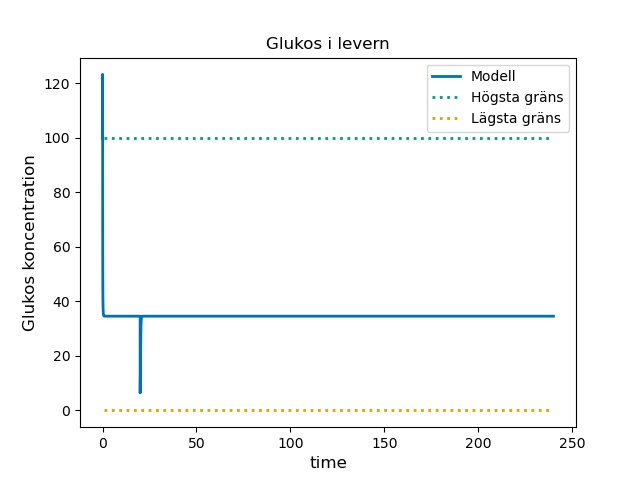
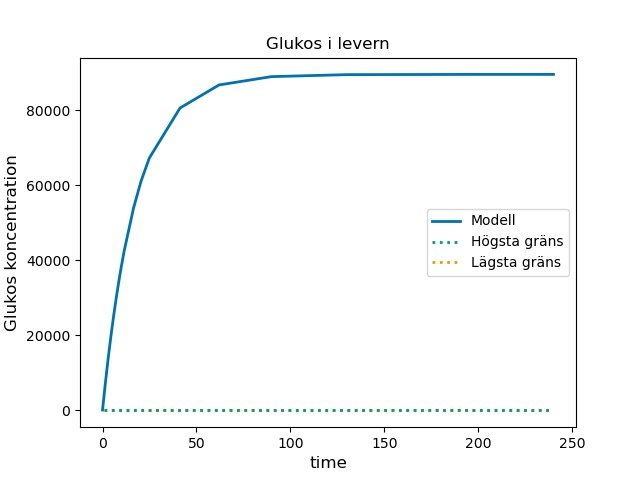
working code

diff --git a/optimering/week17_open_loop_no_inj.py b/optimering/week17_open_loop_no_inj.py
@@ -24,17 +24,6 @@ tI_vec = data_I['time'].values
 cG_vec = data_G['conc'].values
 cI_vec = data_I['conc'].values 
 
-# # Split the time-vectors at timepoint 20 minutes
-# index_G = np.searchsorted(tG_vec, 20)
-# index_I = np.searchsorted(tI_vec, 20)
-
-# tG_1 = tG_vec[0:index_G]
-# tG_2 = tG_vec[index_G:]
-
-# tI_1 = tI_vec[0:index_I]
-# tI_2 = tI_vec[index_I:]
-
-
 def open_loop(t,x,b): 
 
     k1, k2, k3, k4, k5, k6, k7, k8 = b
@@ -48,23 +37,26 @@ def open_loop(t,x,b):
 
     #L= 5000 # Startvärde glukos i levern
 
+    # Scaling factor for units
+    scal_factor = 1e-9
+
     # Glucose plasma [1]
-    dG = k4*C + k1*H - k2*G*I
+    dG = k4*C + k1*H - k2*G*I*scal_factor
 
     # Insulin plasma [2]
-    dI = k3*G - k2*G*I*10**(-9)
+    dI = k3*G - k2*G*I*scal_factor
 
     # GLucose liver [3]
-    dC = -k4*C + k6*E*10**(-9) + k7*F
+    dC = -k4*C + k6*E*scal_factor + k7*F 
 
     # Glucose musle [4]
-    dM = k2*G*I*10**(-9) - k5*M
+    dM = k2*G*I*scal_factor - k5*M
 
     # Glucose intake [5]
     dH = -k1*H
 
     # Glucagon [6]
-    dE = k8 - k2*G*E 
+    dE = k8 - k2*G*E*scal_factor 
 
     # Fettreserv [7]
     dF = -k7*F
@@ -80,14 +72,6 @@ def cost_function(b, yG_vec, yI_vec):
     time_span_G = [tG_vec[0], tG_vec[-1]] 
     time_span_I = [tI_vec[0], tI_vec[-1]] 
 
-    # x0 = [60, 3, 10000, 2, 70, 500]  # G, I, C, M, H, E 
-    # time_span_G1 = [tG_1[0], tG_1[-1]]
-    # time_span_G2 = [tG_2[0], tG_2[-1]] 
-    # time_span_I1 = [tI_1[0], tI_1[-1]]
-    # time_span_I2 = [tI_2[0], tI_2[-1]]
-    
-    #Injection
-    #inj = 2742
 
     # Step 1: Solve ODE-system at points tG_vec
     sol_G = integrate.solve_ivp(open_loop, time_span_G, x0, method="Radau", args=(b, ), t_eval=tG_vec) 
@@ -105,39 +89,6 @@ def cost_function(b, yG_vec, yI_vec):
     E_model = sol_qual.y[5]
     F_model = sol_qual.y[6]
 
-
-    # # Solve ODE-system until 20 minutes
-    # first_sol_G = integrate.solve_ivp(open_loop, time_span_G1, x0, method="LSODA", args=(b, ), t_eval=tG_1) 
-    # first_sol_I = integrate.solve_ivp(open_loop, time_span_I1, x0, method="LSODA", args=(b, ), t_eval=tI_1) 
-    
-    # # Simulate injection of insulin
-    # x1 = first_sol_G.y[:,-1] + [0, inj, 0, 0, 0, 0]
-    
-    # # Solve ODE-system after 20 miunutes
-    # second_sol_G = integrate.solve_ivp(open_loop, time_span_G2, x1, method="LSODA", args=(b, ), t_eval = tG_2)
-    # second_sol_I = integrate.solve_ivp(open_loop, time_span_I2, x1, method="LSODA", args=(b, ), t_eval = tI_2)
-
-    # # The solution for the ODE-system over tG_vec and tI_vec
-    # sol_G = np.concatenate([first_sol_G.y, second_sol_G.y], axis = 1)
-    # sol_I = np.concatenate([first_sol_I.y, second_sol_I.y], axis = 1)
-     
-    # # Solve ODE-system qualitative
-    # first_sol_qual = integrate.solve_ivp(open_loop, [0,20], x0, method="LSODA", args=(b, ))
-
-    # # Simulate the injection
-    # x2 = first_sol_qual.y[:, -1] + [0, 10000, 0, 0, 0, 0]
-
-    # # Solve ODE-system after 20 miunutes with injection
-    # second_sol_qual = integrate.solve_ivp(open_loop, [20,240], x2, method = "LSODA", args = (b, ))
-
-    # sol_qual = np.concatenate([first_sol_qual.y, second_sol_qual.y], axis = 1)
-
-    # G_model = sol_qual[0]
-    # I_model = sol_qual[1]
-    # C_model = sol_qual[2]
-    # M_model = sol_qual[3]
-    # H_model = sol_qual[4]
-    # E_model = sol_qual[5]
 
     # Extract G and I model concentrations at t-points tG_vec and tI_vec
     yG_model = sol_G.y[0] 
@@ -194,7 +145,7 @@ def cost_function(b, yG_vec, yI_vec):
 randSeed = 2 # random number of choice
 lhsmdu.setRandomSeed(randSeed) # Latin Hypercube Sampling with multi-dimensional uniformity
 
-start = np.array(lhsmdu.sample(8, 1)) # Latin Hypercube Sampling with multi-dimensional uniformity (parameters, samples)
+start = np.array(lhsmdu.sample(8, 10)) # Latin Hypercube Sampling with multi-dimensional uniformity (parameters, samples)
 
 para, samples = start.shape
 
@@ -235,9 +186,6 @@ x0 = [30, 100, 34, 60, 70, 50, 400]  # G, I, C, M, H, E, F
 time_span_G = [tG_vec[0], tG_vec[-1]] 
 time_span_I = [tI_vec[0], tI_vec[-1]] 
 
-#Injection
-#inj = 2742
-
 # Solve ODE-system qualitative
 sol_qual = integrate.solve_ivp(open_loop, time_span_G, x0, method="Radau", args=(minimum[1], ))
 
@@ -251,70 +199,12 @@ E_model = sol_qual.y[5]
 F_model = sol_qual.y[6]
 
 
-
-# # Simulate the injection
-# x2 = first_sol_qual.y[:, -1] + [0, inj, 0, 0, 0, 0]
-
-# # Solve ODE-system after 20 miunutes with injection
-# second_sol_qual = integrate.solve_ivp(open_loop, [20,240], x2, method = "LSODA", args = (minimum[1], ))
-
-# sol_qual = np.concatenate([first_sol_qual.y, second_sol_qual.y], axis = 1)
-
-# G_model = sol_qual[0]
-# I_model = sol_qual[1]
-# C_model = sol_qual[2]
-# M_model = sol_qual[3]
-# H_model = sol_qual[4]
-# E_model = sol_qual[5]
-
-
-
 # Print some statistics  
 print("Optimal value found via Powells-method:") 
 print(minimum[1]) 
 print("Value of cost-function") 
 print(minimum[0]) 
 
-### ~~~~~~ Calculate the sensitivity and identity ~~~~~ ###
-
-# def sensitivity(b,t,x):
-#    # Calcualte the sensitivity matrix using the optimal 
-#     h = np.sqrt(np.finfo(np.float).eps) # Maskintoleransen, vår steglängd för finita differen 
-#     b_par = len(b)
-#     t_len = len(t)
-#     # Sensitivity analysis for each time step
-#     S = np.zeros([b_par, t_len * len(x)])
-#     time_span = [t[0], t[-1]]
-
-#     for n in range(len(b)):
-#         b1 = b.copy() 
-#         b2 = b.copy()  
-#         b1[n] += h 
-#         b2[n] -= h
-
-#         Sol_high = integrate.solve_ivp(open_loop, time_span, x, method='LSODA', args=(b1, ), t_eval = t)
-#         Sol_low = integrate.solve_ivp(open_loop, time_span, x, method='LSODA', args=(b2, ), t_eval= t)
-        
-#         Sol_diff = (Sol_high.y-Sol_low.y)/(2*h)
-
-#         S[n,:] = Sol_diff.reshape(t_len*len(x))
-
-#     return S
-
-# S = sensitivity(minimum[1], tG_vec , x0)
-
-# # Fisher matrix to make the covariance matrix
-# Fisher = 2 * S @ S.transpose()
-
-# cov_mat = Fisher.transpose()
-
-# # Identification of the parameters
-# d_cov = np.diag(cov_mat)
-
-# var_coeff = np.square(d_cov)/minimum[1]
-
-# print('Identification for each parameters')
-# print(var_coeff)
 
 ### ~~~~~~ Plot model, data, constrains and residual ~~~~~~~ ###
 

diff --git a/week16_open_loop_inj.py b/week16_open_loop_inj.py
@@ -57,19 +57,19 @@ def open_loop(t,x,b):
     L= 5000 # Startvärde glukos i levern
 
     # Scaling factor
-    #scal_factor = 1e-9
+    scal_factor = 1e-9
 
     # Glucose plasma [1]
-    dG = k4*C*I + k1*H - k2*G
+    dG = k4*C*I*scal_factor + k1*H - k2*G
 
     # Insulin plasma [2]
-    dI = k3*G - k4*G*I
+    dI = k3*G - k2*G*I*scal_factor
 
     # GLucose liver [3]
-    dC = -k4*C*I + L
+    dC = -k4*C + L
 
     # Glucose musle [4]
-    dM = k2*G - k5*M
+    dM = k2*G*I*scal_factor - k5*M
 
     # Glucose intake [5]
     dH = -k1*H
@@ -192,7 +192,7 @@ filename = filename.replace(":",".")
 for n in tqdm(range(samples)):
     
     k1 = start[0,n] * para_int[2]
-    k2 = start[1,n] * para_int[4]
+    k2 = start[1,n] * para_int[2]
     k3 = start[2,n] * para_int[7]
     k4 = start[3,n] * para_int[2]
     k5 = start[4,n] * para_int[7]

diff --git a/optimering/week16_no_inj.py b/optimering/week16_no_inj.py
@@ -52,7 +52,7 @@ def open_loop(t,x,b):
     dG = k4*C*I + k1*H - k2*G
 
     # Insulin plasma [2]
-    dI = k3*G - k4*G*I
+    dI = k3*G - k2*G*I
 
     # GLucose liver [3]
     dC = -k4*C*I + L
